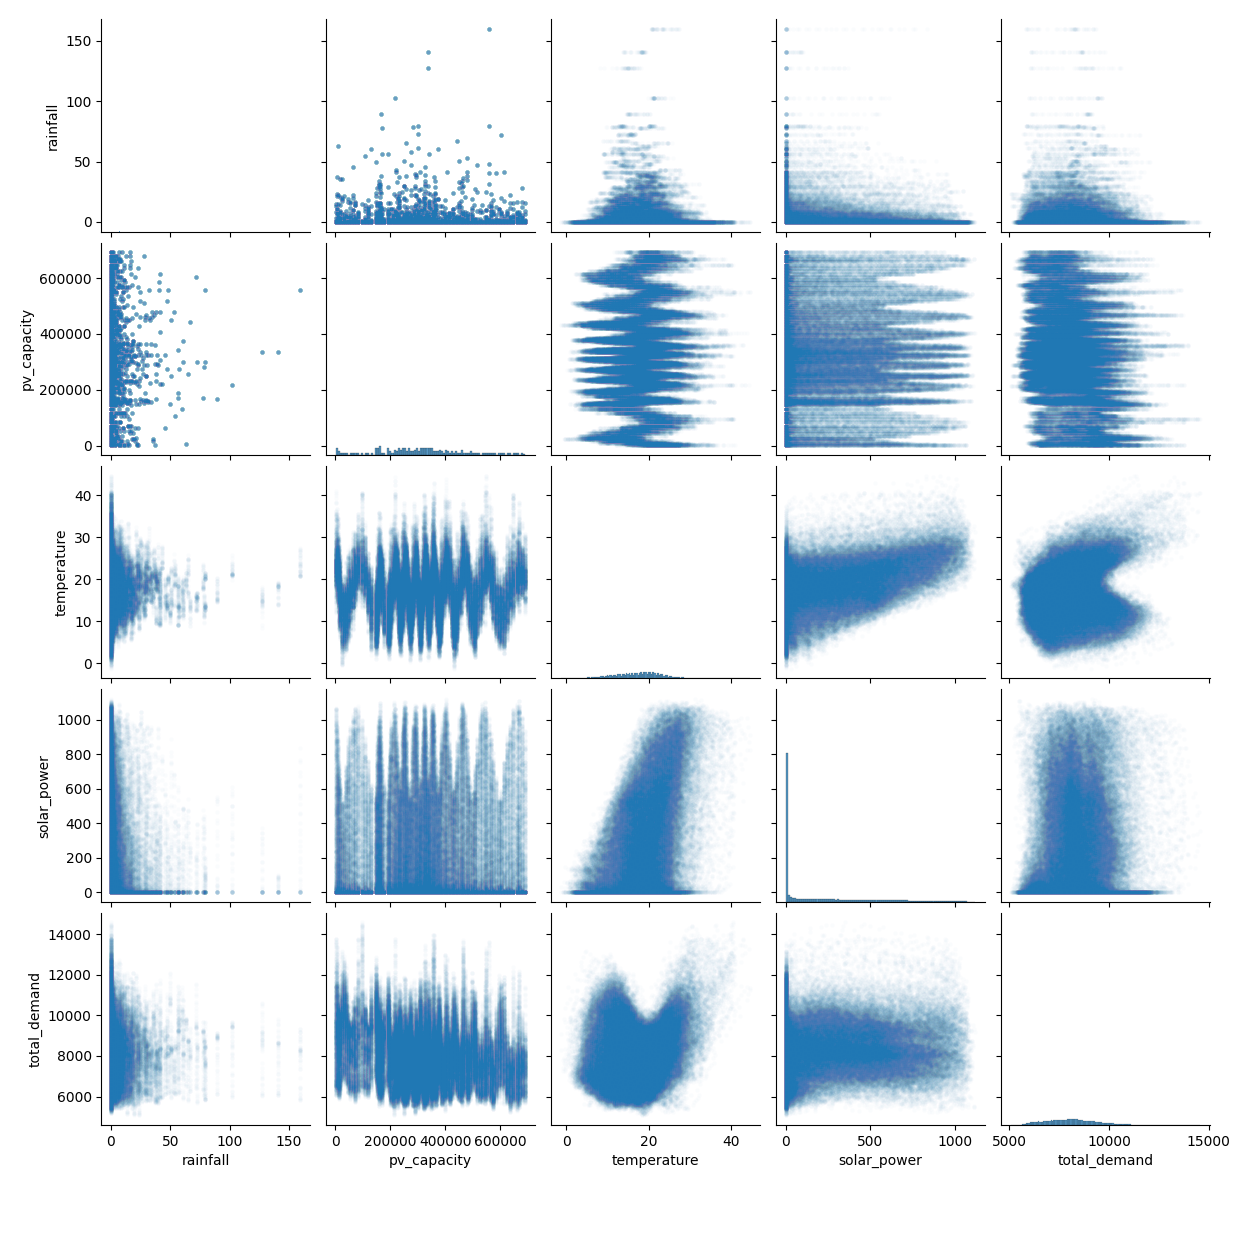
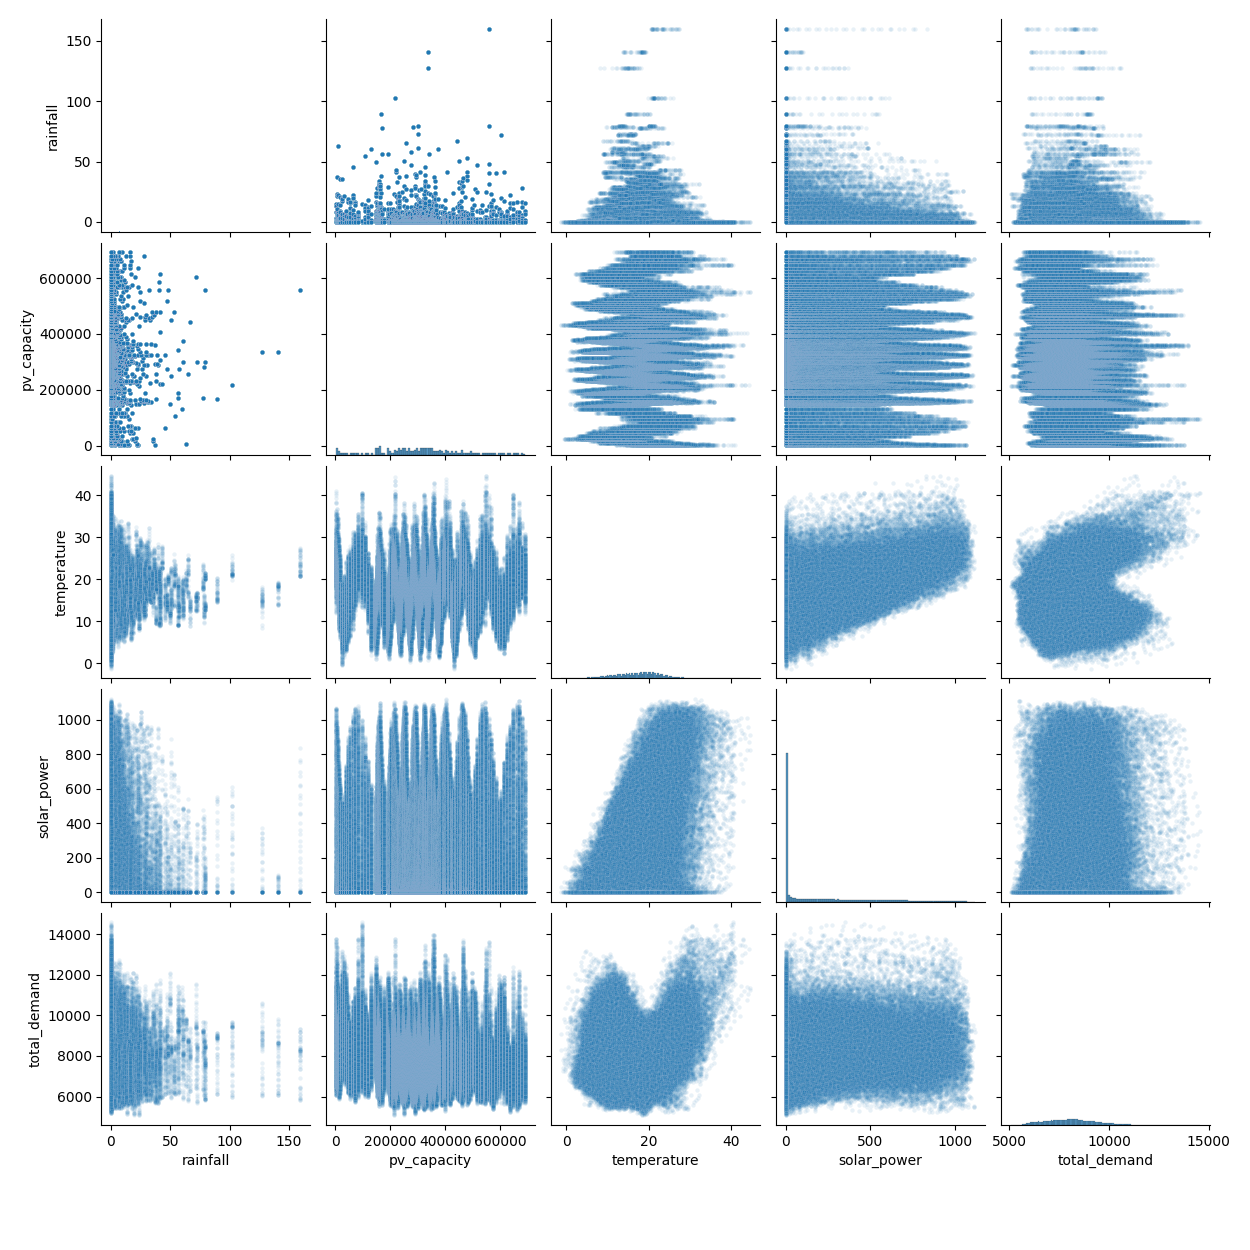
formatted eda.py and updated figures

diff --git a/python/eda.py b/python/eda.py
@@ -5,130 +5,98 @@ import seaborn as sns
 from pathlib import Path
 import sys
 
-
-cwd = Path.cwd()
-root_folder = cwd.parent
-data_folder = root_folder / 'data'
-img_folder = root_folder / 'figures'
-
-df = pd.read_csv(data_folder / 'all_data_30min.csv')
-
-df['datetime'] = pd.to_datetime(df['datetime'])
-df['time'] = df['datetime'].dt.time
-df['time'] = pd.to_datetime(df['time'], format='%H:%M:%S')
-df['date'] = df['datetime'].dt.date
-df['date'] = pd.to_datetime(df['date'], format='%Y-%m-%d')
-df = df[df['date']!='2010-01-01']
-
-# get corresponding data to daily peak demand
-max_idx = df.groupby('date')['total_demand'].idxmax()
-peak_df = df.loc[max_idx].reset_index(drop=True)
-
-
-# TODO: get histogram of peak times
-
-
-
-
-
-
-## RELATIONSHIPS BETWEEN VARIABLES ##
-"""
-# scatterplot grid of all variables
-p = sns.pairplot(df, plot_kws={'alpha': 0.02, 's': 10})
-plt.subplots_adjust(bottom=0.1)
-plt.savefig(img_folder / 'demand_var_comparison')
-plt.close()
-
-p = sns.pairplot(peak_df, plot_kws={'alpha': 0.2, 's': 10})
-plt.subplots_adjust(bottom=0.1)
-plt.savefig(img_folder / 'peak_demand_var_comparison')
-plt.close()
-# NOTE: extreme values of max and min temperatures (to a lesser extent solar exposure) correlate with high peak demand
-"""
-
-"""
-=
-cm = df.corr(numeric_only=True)
-peak_cm = peak_df.corr(numeric_only=True)
-fig, axs = plt.subplots(1, 2, figsize=(11,6))
-sns.heatmap(cm, annot=True, cmap='coolwarm', vmin=-1, vmax=1, ax=axs[0], cbar=False)
-sns.heatmap(peak_cm, annot=True, cmap='coolwarm', vmin=-1, vmax=1, ax=axs[1], cbar=False)
-axs[0].set_title('All Demand')
-axs[1].set_title('Peak Demand')
-axs[1].tick_params(axis='y', labelleft=False)
-axs[0].tick_params(axis='y', rotation=0)
-plt.tight_layout()
-plt.suptitle('Correlation Between Variables')
-plt.savefig(img_folder / 'corr_matrices')
-plt.close()
-"""
-"""
-## VARIABLE DISTRIBUTION ##
-fig, axs = plt.subplots(2, 5, figsize=(12,6))
-col_list = df.columns.tolist()[1:6]
-for col in col_list:
-    col_idx = col_list.index(col)
-    sns.violinplot(df[col], ax=axs[0][col_idx], color='cadetblue')
-    sns.violinplot(peak_df[col], ax=axs[1][col_idx], color='palevioletred')
-    ymin, ymax = axs[0][col_idx].get_ylim()
-    axs[1][col_idx].set_ylim(ymin, ymax)
-    axs[0][col_idx].set_title(col)
-    axs[0][col_idx].set_ylabel('')
-    axs[1][col_idx].set_ylabel('')
-fig.text(0.01, 0.68, 'All Demand', va='center', rotation=90, fontsize=12)
-fig.text(0.01, 0.23, 'Peak Demand', va='center', rotation=90, fontsize=12)
-plt.suptitle('Variable Distributions')
-plt.tight_layout()
-fig.subplots_adjust(left=0.06) 
-plt.savefig(img_folder / 'var_violinplots')
-plt.close()
-
-"""
-
-
-"""
-col_list = df.columns.tolist()[1:6]
-for col in col_list:
-    fig, axs = plt.subplots(1, 2, figsize=(8,5))
-    sns.histplot(df, x=col, ax=axs[0], color='cadetblue', bins=50)
-    sns.histplot(peak_df, x=col, ax=axs[1], color='palevioletred', bins=50)
-    xmin, xmax = axs[0].get_xlim()
-    axs[1].set_xlim(xmin, xmax)
-    axs[1].set_ylabel('')
-    axs[0].set_title('All Demand')
-    axs[1].set_title('Peak Demand')
-    img_name = col + '_histograms'
+def scatterplot_matrix(df, img_folder, img_name):
+    """
+    scatterplot matrix of all numerical variables in dataframe
+    """
+    p = sns.pairplot(df, plot_kws={'alpha': 0.1, 's': 10})
+    plt.subplots_adjust(bottom=0.1)
     plt.savefig(img_folder / img_name)
     plt.close()
-"""
-
-"""
-df['demand'] = 'all'
-peak_df['demand'] = 'peak'
-comb_df = pd.concat([df, peak_df], ignore_index=True)
-"""
 
 
+def corr_matrix (df, peak_df, img_folder):
+    """
+    correlation matrix of all numerical variables in dataframe
+    """
+    cm = df.corr(numeric_only=True)
+    peak_cm = peak_df.corr(numeric_only=True)
+    fig, axs = plt.subplots(1, 2, figsize=(11,6))
+    sns.heatmap(cm, annot=True, cmap='coolwarm', vmin=-1, vmax=1, ax=axs[0], cbar=False)
+    sns.heatmap(peak_cm, annot=True, cmap='coolwarm', vmin=-1, vmax=1, ax=axs[1], cbar=False)
+    axs[0].set_title('All Demand')
+    axs[1].set_title('Peak Demand')
+    axs[1].tick_params(axis='y', labelleft=False)
+    axs[0].tick_params(axis='y', rotation=0)
+    plt.tight_layout()
+    plt.suptitle('Correlation Between Variables')
+    plt.savefig(img_folder / 'corr_matrices')
+    plt.close()
 
-## TEMPORAL DISTRIBUTIONS ##
 
-# peak demand over time
-jan_1 = df[(df['date'].dt.month == 1) & (df['date'].dt.day == 1)]['date']
+def var_distributions(df, peak_df, img_folder):
+    """
+    compare variable distributions for total and peak demand
+    """
+    # violin plot matrix
+    fig, axs = plt.subplots(2, 5, figsize=(12,6))
+    col_list = df.columns.tolist()[1:6]
+    for col in col_list:
+        col_idx = col_list.index(col)
+        sns.violinplot(df[col], ax=axs[0][col_idx], color='cadetblue')
+        sns.violinplot(peak_df[col], ax=axs[1][col_idx], color='palevioletred')
+        ymin, ymax = axs[0][col_idx].get_ylim()
+        axs[1][col_idx].set_ylim(ymin, ymax)
+        axs[0][col_idx].set_title(col)
+        axs[0][col_idx].set_ylabel('')
+        axs[1][col_idx].set_ylabel('')
+    fig.text(0.01, 0.68, 'All Demand', va='center', rotation=90, fontsize=12)
+    fig.text(0.01, 0.23, 'Peak Demand', va='center', rotation=90, fontsize=12)
+    plt.suptitle('Variable Distributions')
+    plt.tight_layout()
+    fig.subplots_adjust(left=0.06) 
+    plt.savefig(img_folder / 'var_violinplots')
+    plt.close()
 
-plt.figure(figsize=(12, 5))
-sns.lineplot(df, x='date', y='total_demand', lw=1, errorbar=None)
-for l in jan_1:
-    plt.axvline(x=l, color='lightgrey', linestyle='--', lw=0.5, zorder=1)
-plt.title('Peak Demand')
-plt.savefig(img_folder / 'peak_demand_time')
-plt.close()
-# NOTE: extreme demand values shown in summer, lowest min values in winter
+    # histograms of numerical variables
+    col_list = df.columns.tolist()[1:6]
+    for col in col_list:
+        fig, axs = plt.subplots(1, 2, figsize=(8,5))
+        sns.histplot(df, x=col, ax=axs[0], color='cadetblue', bins=50)
+        sns.histplot(peak_df, x=col, ax=axs[1], color='palevioletred', bins=50)
+        xmin, xmax = axs[0].get_xlim()
+        axs[1].set_xlim(xmin, xmax)
+        axs[1].set_ylabel('')
+        axs[0].set_title('All Demand')
+        axs[1].set_title('Peak Demand')
+        img_name = col + '_histograms'
+        plt.savefig(img_folder / img_name)
+        plt.close()
+
+    # histogram showing time of peak demand
+    peak_df['hour_float'] = peak_df['datetime'].dt.hour + peak_df['datetime'].dt.minute / 60
+    sns.histplot(peak_df, x='hour_float', bins=48)
+    plt.xticks(range(0, 24, 1))  # show every 2 hours
+    plt.xlabel('Hour')
+    plt.title('Time Frequency of Peak Demand')
+    plt.savefig(img_folder / 'peak_demand_time_histogram')
+    plt.close()
 
 
+def demand_time(df, img_folder):
+    """
+    plot all demand measurements over time
+    """
+    jan_1 = df[(df['date'].dt.month == 1) & (df['date'].dt.day == 1)]['date']
+    plt.figure(figsize=(12, 5))
+    sns.lineplot(df, x='date', y='total_demand', lw=1, errorbar=None)
+    for l in jan_1:
+        plt.axvline(x=l, color='lightgrey', linestyle='--', lw=0.5, zorder=1)
+    plt.title('Peak Demand')
+    plt.savefig(img_folder / 'peak_demand_time')
+    plt.close()
 
-## daily statistics
-# TODO: add all vars once PV fixed - this is v much a proof of concept
+
 def avg_stats_across_years(d_frame, var, axs, ylab, xlab=False):
     """
     calculate aggregated statistics for each day across all years for the specified variable
@@ -145,28 +113,95 @@ def avg_stats_across_years(d_frame, var, axs, ylab, xlab=False):
     if not xlab:
         axs.set_xlabel('')
 
-def get_month_day(d_frame): 
-    d_frame['month'] = d_frame['date'].dt.month
-    d_frame['day'] = d_frame['date'].dt.day
-    return d_frame
 
-df = get_month_day(df)
-peak_df = get_month_day(peak_df)
+def get_month_day(df): 
+    """
+    extract month and day from date column
+    """
+    df['month'] = df['date'].dt.month
+    df['day'] = df['date'].dt.day
+    return df
 
-col_list = df.columns.tolist()[1:6]
-for col in col_list:
-    fig, ax = plt.subplots(2, 1, figsize=(8,6))
-    avg_stats_across_years(df, col, ax[0], 'All Demand')
-    avg_stats_across_years(peak_df, col, ax[1], 'Peak Demand', True)
 
-    handles, labels = ax[0].get_legend_handles_labels()
-    for axs in ax.flat:
-        axs.legend_.remove()
-    fig.legend(handles, labels, loc='upper right')
-    ax[0].set_title(col)
-    img_name = col + '_statistics'
-    plt.suptitle('Average Variable Statistics')
+def daily_stats(df, peak_df, img_folder):
+    """
+    plot variable statistics averaged between years for all numerical variables
+    compare all demand and peak demand statistics
+    """
+    df = get_month_day(df)
+    peak_df = get_month_day(peak_df)
+    col_list = df.columns.tolist()[1:6]
+    for col in col_list:
+        fig, ax = plt.subplots(2, 1, figsize=(8,6))
+        avg_stats_across_years(df, col, ax[0], 'All Demand')
+        avg_stats_across_years(peak_df, col, ax[1], 'Peak Demand', True)
+
+        handles, labels = ax[0].get_legend_handles_labels()
+        for axs in ax.flat:
+            axs.legend_.remove()
+        fig.legend(handles, labels, loc='upper right')
+        ax[0].set_title(col)
+        img_name = col + '_statistics'
+        plt.suptitle('Average Variable Statistics')
+        plt.tight_layout()
+        img_name = col + '_statistics'
+        plt.savefig(img_folder / img_name)
+        plt.close()
+
+
+def aemo_forecast(forecast, img_folder):
+    """
+    residual plots for AEMO forecast
+    """
+    fig, axs = plt.subplots(1, 2, figsize=(12,6), width_ratios=[2, 1])
+    forecast['datetime'] = pd.to_datetime(forecast['datetime'])
+    forecast['forecast_datetime'] = pd.to_datetime(forecast['forecast_datetime'])
+    forecast['resid'] = forecast['total_demand'] - forecast['forecast_demand']
+    sns.lineplot(forecast, x='datetime', y='resid', ax=axs[0], linewidth=0.5)
+    sns.scatterplot(forecast, x='forecast_demand', y='resid', ax=axs[1], alpha=0.2)
+    axs[1].set_ylabel('')
+    plt.suptitle('AEMO Forecast Residuals')
+    for ax in axs:
+        ax.grid(color='grey', linestyle='--', linewidth=0.25, alpha=0.4)
+        ax.axhline(y=0, color='grey', linestyle=':', alpha=0.7, zorder=1)
     plt.tight_layout()
-    img_name = col + '_statistics'
-    plt.savefig(img_folder / img_name)
+    plt.savefig(img_folder / 'aemo_forecast_residuals')
     plt.close()
+
+
+
+
+
+cwd = Path.cwd()
+root_folder = cwd.parent
+data_folder = root_folder / 'data'
+img_folder = root_folder / 'figures'
+
+demand_df = pd.read_csv(data_folder / 'all_data_30min.csv')
+demand_df['datetime'] = pd.to_datetime(demand_df['datetime'])
+demand_df['time'] = demand_df['datetime'].dt.time
+demand_df['time'] = pd.to_datetime(demand_df['time'], format='%H:%M:%S')
+demand_df['date'] = demand_df['datetime'].dt.date
+demand_df['date'] = pd.to_datetime(demand_df['date'], format='%Y-%m-%d')
+demand_df = demand_df[demand_df['date']!='2010-01-01']
+
+# get corresponding data to daily peak demand
+max_idx = demand_df.groupby('date')['total_demand'].idxmax()
+peak_demand_df = demand_df.loc[max_idx].reset_index(drop=True)
+
+forecast_demand_df = pd.read_csv(data_folder / 'peak_forecasts.csv')
+
+# explore relationships between variables
+scatterplot_matrix(demand_df, img_folder, 'demand_var_comparison')
+scatterplot_matrix(peak_demand_df, img_folder, 'peak_demand_var_comparison')
+corr_matrix (demand_df, peak_demand_df, img_folder)
+
+# explore variable distributions
+var_distributions(demand_df, peak_demand_df, img_folder)
+
+# explore temporal distributions
+demand_time(peak_demand_df, img_folder)
+daily_stats(demand_df, peak_demand_df, img_folder)
+
+# plot AEMO forecast distributions
+aemo_forecast(forecast_demand_df, img_folder)
